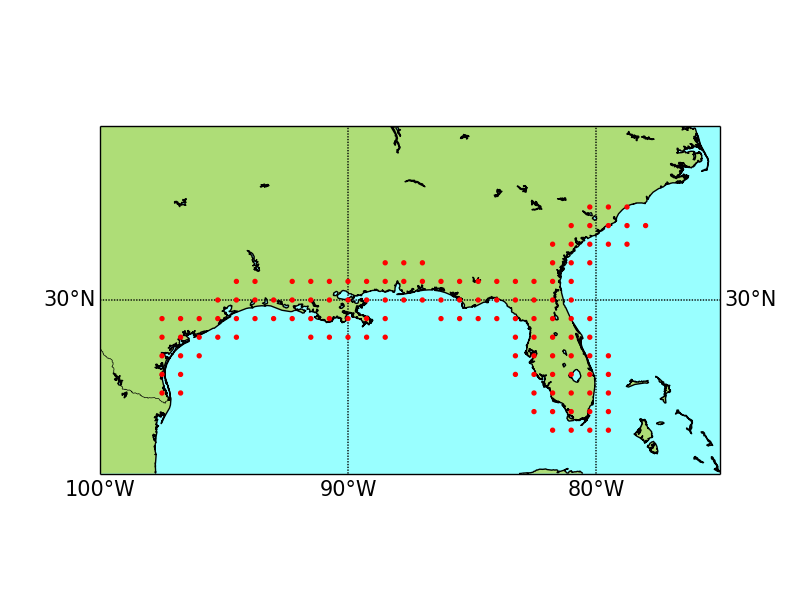
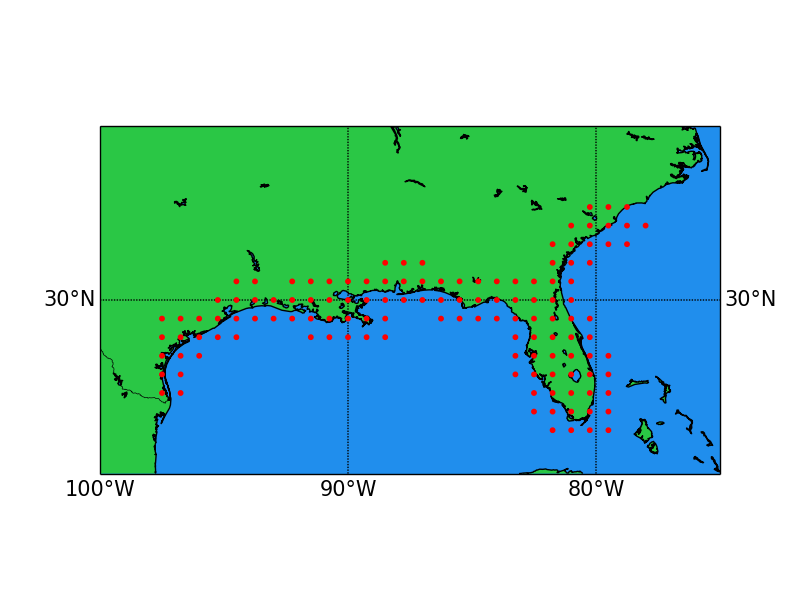
Even more figure updates

diff --git a/DLM_stats.py b/DLM_stats.py
@@ -1121,6 +1121,33 @@ max_wind_speed = int(math.ceil(np.amax(wind_speeds)))
 # Comment this line out if you don't want any maximum limit on what values to plot
 max_wind_speed = 45
 
+m = Basemap(llcrnrlon = -100, llcrnrlat = 23, urcrnrlon = -75, urcrnrlat = 37,
+            projection = 'cyl', resolution ='i')#, lon_0 = -80, lat_0 = 35)
+m.drawcoastlines()
+m.drawcountries()
+m.drawmapboundary(fill_color='#208eed')
+m.fillcontinents(color = '#2ac745', lake_color='#208eed')
+m.drawparallels(np.arange(20,50,10),labels = [1,1,0,0], fontsize = 15)
+m.drawmeridians(np.arange(-100,-60,10),labels = [0,0,0,1], fontsize = 15)
+
+i = 0
+for loc in locs:
+    #if (loc[0] > -84 and loc[0] <= -79.5 and loc[1] <= 30.75):
+    #    colorcode = '#006700'
+    #elif (loc[0] == -81.75 and loc[1] > 30.75) or (loc[0] == -81 and loc[1] > 30.75) or (loc[0] == -80.25 and loc[1] > 30.75) or \
+    #     (loc[0] == -79.5 and loc[1] > 30.75) or (loc[0] == -78.75 and loc[1] <= 33.75) or (loc[0] == -78 and loc[1] == 33):
+    #    colorcode = '#0000ff'
+    #else:
+    #    colorcode = '#ff0000'
+
+    colorcode = '#ff0000'
+    m.scatter(loc[0], loc[1], 10, marker = 'o', color = colorcode, latlon = True, zorder = 10)
+
+#plt.title('Locations of Data Points')
+plt.savefig('Figures/' + location_names[region][0]  + '/Wind_Speed_Measurement_Locations_' + location_names[region][0] + '.png')
+plt.savefig('Figures/Measurement_Locations/Wind_Speed_Measurement_Locations_' + location_names[region][0] + '.png')
+
+
 # Read in hurricane best track data
 best_track_speeds, best_track_speeds_79_97, best_track_speeds_98_16 = getBestTrackSpeeds('best_tracks.txt', locs)
 times_to_remove, locs_to_remove = readBestTracks('best_tracks.txt', locs)
@@ -2175,7 +2202,7 @@ m = Basemap(llcrnrlon = -100, llcrnrlat = 23, urcrnrlon = -75, urcrnrlat = 37,
 m.drawcoastlines()
 m.drawcountries()
 m.drawmapboundary(fill_color='#99ffff')
-m.fillcontinents(color = '#2ac745', lake_color='#99ffff')
+m.fillcontinents(color = '#2ac745', lake_color='#208eed')
 m.drawparallels(np.arange(20,50,10),labels = [1,1,0,0], fontsize = 15)
 m.drawmeridians(np.arange(-100,-60,10),labels = [0,0,0,1], fontsize = 15)
 
